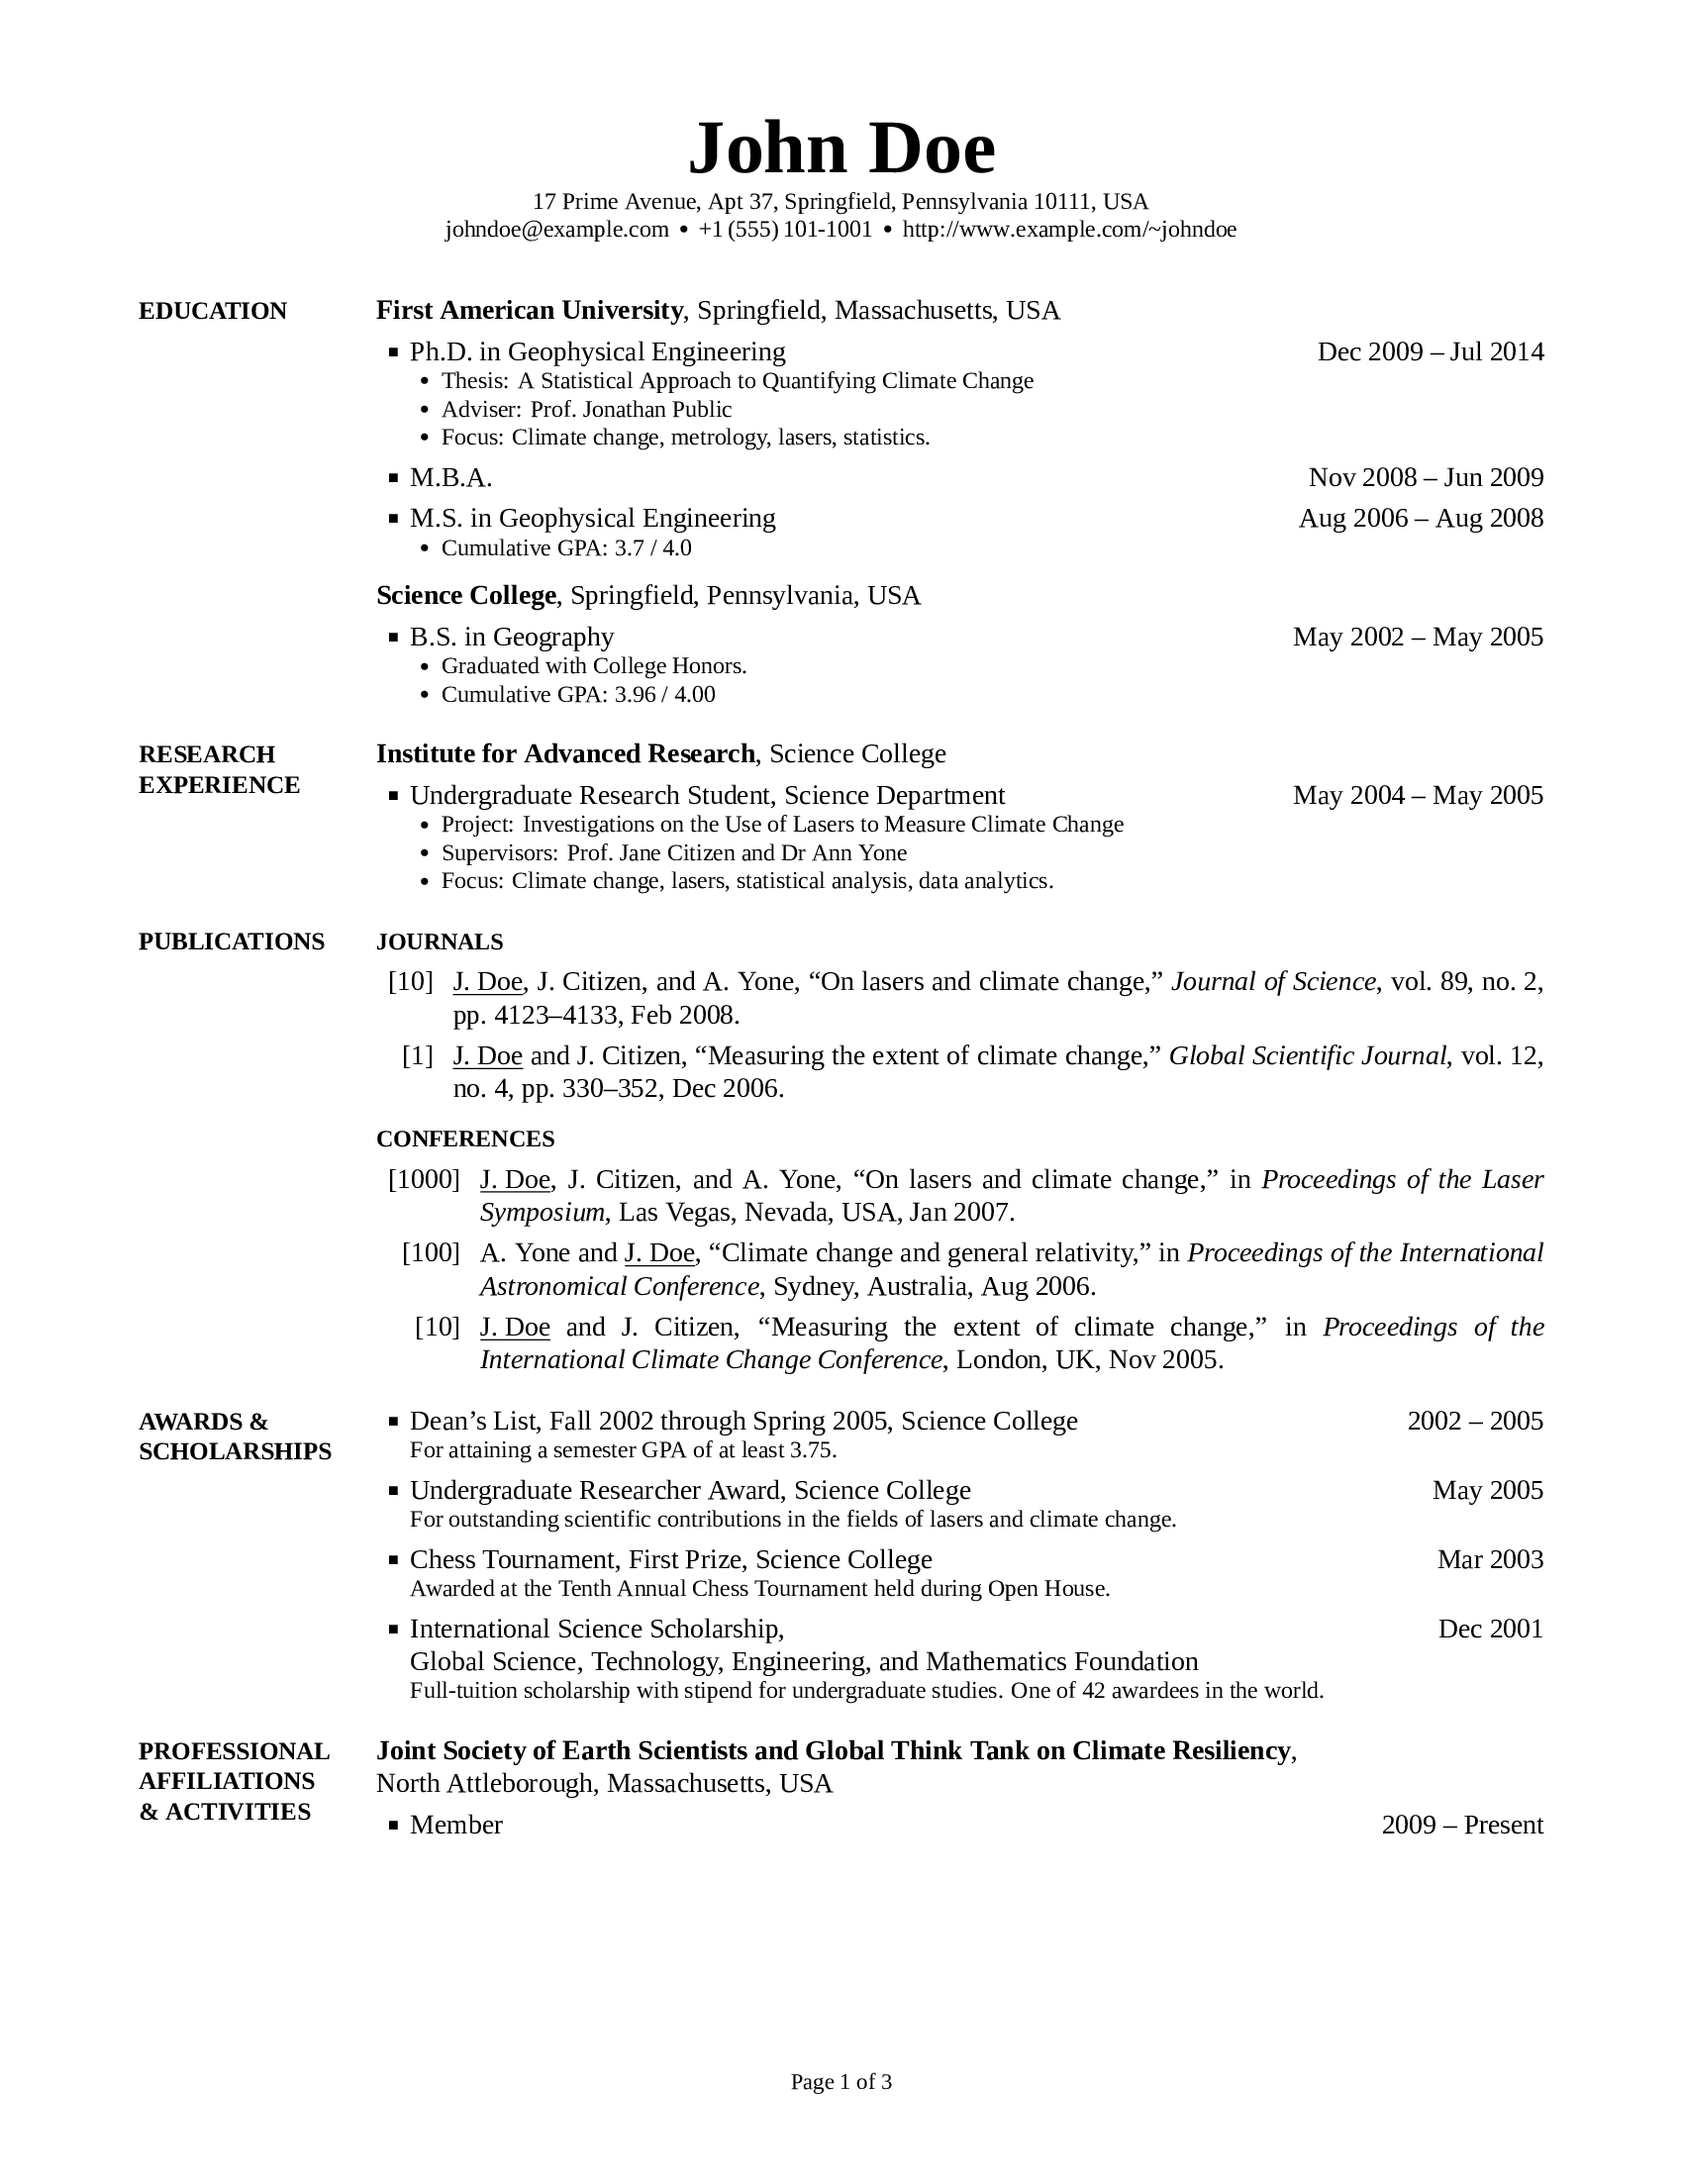
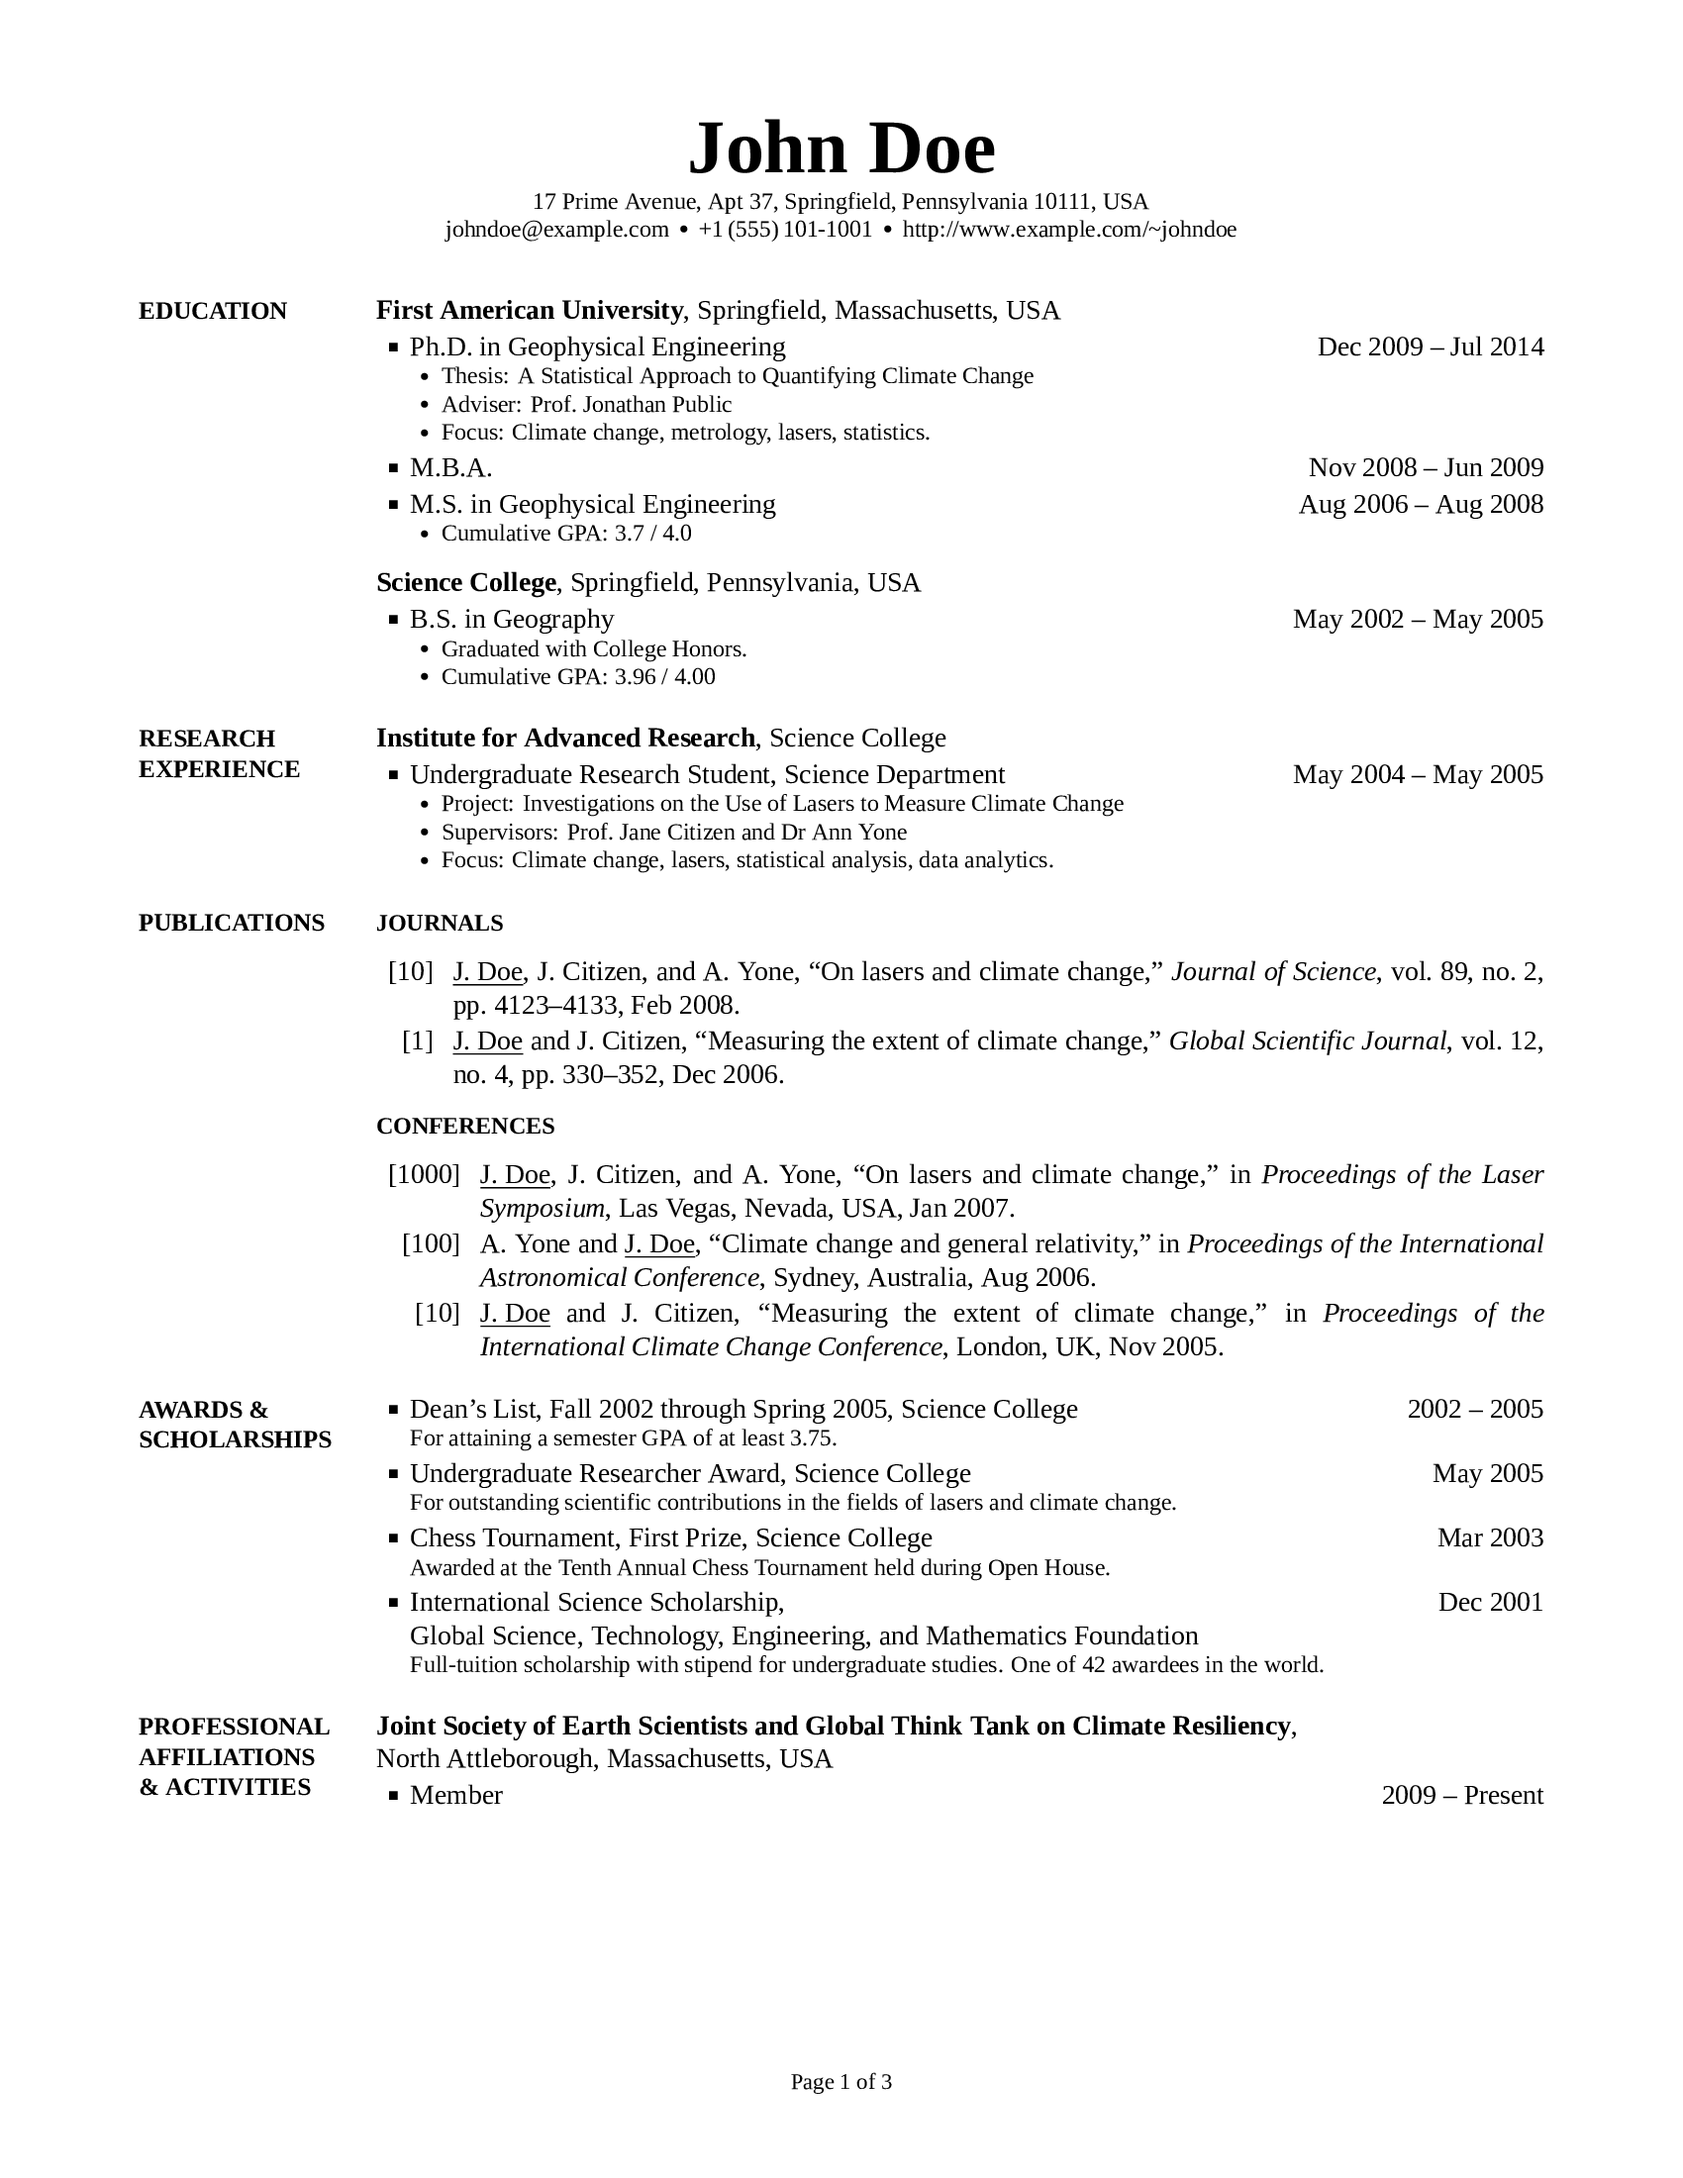
Minor layout tweaks.

diff --git a/CV.tex b/CV.tex
@@ -4,7 +4,7 @@
 % vim: set fenc=utf-8
 
 %%%%%%%%%%%%%%%%%%%%%%%%%%%%%%%%%%%%%%%%%%%%%%%%%%%%%%%%%%%%%%%%%
-%% SIMPLE-RESUME-CV
+%% CV.tex
 %% <https://github.com/zachscrivena/simple-resume-cv>
 %% This is free and unencumbered software released into the
 %% public domain; see <http://unlicense.org> for details.
@@ -202,7 +202,7 @@ Climate change, lasers, statistical analysis, data analytics.
 \begingroup
 \renewcommand{\MaxNumberedItem}{[88]}
 
-\Gap
+\BigGap
 \NumberedItem{[10]}
 \href{http://www.example.com/my-paper-doi-5}
 {\underline{J.~Doe}, J.~Citizen, and A.~Yone,
@@ -236,7 +236,7 @@ pp.~330--352,
 \begingroup
 \renewcommand{\MaxNumberedItem}{[8888]}
 
-\Gap
+\BigGap
 \NumberedItem{[1000]}
 \href{http://www.example.com/my-paper-doi-3}
 {\underline{J.~Doe}, J.~Citizen, and A.~Yone,
@@ -455,7 +455,6 @@ Microsoft Word,
 Microsoft Excel,
 Microsoft PowerPoint.
 
-
 %%%%%%%%%%%%%%%
 %% INTERESTS %%
 %%%%%%%%%%%%%%%
@@ -568,7 +567,7 @@ Usage Notes}
 {This is a SubSection (For PDF Bookmark)}
 {PDF:ThisIsASubSection:ForPDFLink}
 
-\Gap
+\BigGap
 \BulletItem
 Use \CodeCommand{Section\{a\}\{b\}\{c\}} and
 \CodeCommand{SubSection\{a\}\{b\}\{c\}}
@@ -612,7 +611,7 @@ Use \CodeCommand{Gap} and \CodeCommand{BigGap} to insert vertical spaces between
 {This is Another Subsection (For PDF Bookmark)}
 {PDF:ThisIsAnotherSubSection:ForPDFLink}
 
-\Gap
+\BigGap
 \Entry
 This is a plain \CodeCommand{Entry},
 followed by an \CodeCommand{hfill} and a date range
@@ -645,7 +644,7 @@ Change the value of the macro \CodeCommand{MaxNumberedItem} to adjust the indent
 {Line, Paragraph, and Page Breaks (For PDF Bookmark)}
 {PDF:LineParagraphAndPageBreaks:ForPDFLink}
 
-\Gap
+\BigGap
 \BulletItem
 To create a new line within the same paragraph (i.e., preserving the same paragraph indentation), use \CodeCommand{newline} instead of \CodeCommand{\textbackslash};
 the latter will reset the paragraph indentation.
@@ -672,7 +671,7 @@ To create a new page, use \CodeCommand{newpage}.
 {Dates (For PDF Bookmark)}
 {PDF:Dates:ForPDFLink}
 
-\Gap
+\BigGap
 \BulletItem
 Use the following macros to specify and display dates consistently:
 \SubBulletItem
@@ -711,6 +710,7 @@ Change the date format option passed to the document class to adjust how dates a
 % CV NOTE %
 %%%%%%%%%%%
 
+\BigGap
 \UseNoteFont%
 \null\hfill%
 [\textit{\CVNote}]

diff --git a/README.md b/README.md
@@ -1,5 +1,4 @@
-simple-resume-cv
-================
+# simple-resume-cv
 
 Template for a simple resume or curriculum vitae (CV), in XeLaTeX.
 
@@ -39,7 +38,7 @@ Instructions for compiling the document (TeX &rarr;(XeLaTeX)&rarr; PDF):
 This is free and unencumbered software released into the public domain.
 For more information, please see the file `LICENSE` or refer to <http://unlicense.org>.
 
-## Recent Changes
+## Recent Major Changes
 
 - Release v3.0
 	- Provides better support for other packages (e.g., biblatex) by removing the use of the longtable package for layout.
